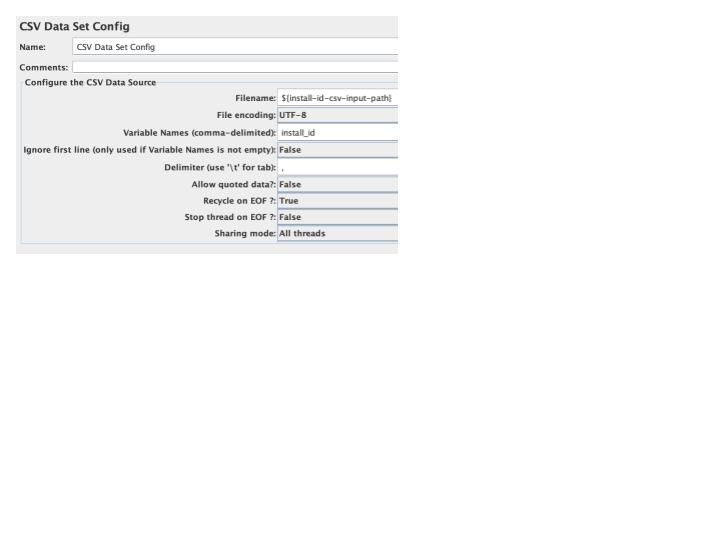
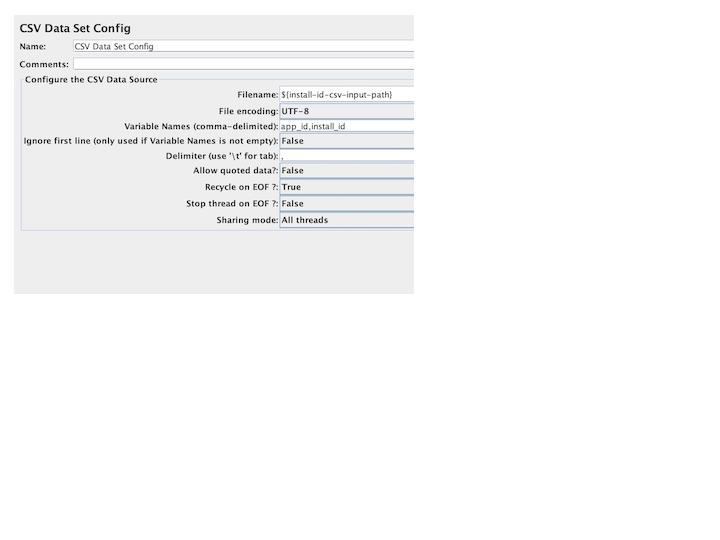
revised tutorial, updated load generation scripts and added a few fixes

Changed region(s): [[0.0306, 0.0296, 0.5806, 0.4741]]

diff --git a/tutorials/jmeter-bigtable-perf-testing/index.md b/tutorials/jmeter-bigtable-perf-testing/index.md
@@ -43,7 +43,7 @@ Use the [pricing calculator](https://cloud.google.com/products/calculator) to ge
 
 Possible use cases for doing performance tests with JMeter:
 
-* You want to migrate current Cassandra, HBase, or other NoSQL use cases  to Cloud Bigtable.
+* You want to migrate current Cassandra, HBase, or other NoSQL use cases to Cloud Bigtable.
 * You want to evaluate performance of a data model and need to ensure that Bigtable scales linearly to meet demand.
 * You want to standardize on Cloud Bigtable for multiple applications.
 * Test Cloud Bigtable autoscaling response time and speed.
@@ -54,9 +54,8 @@ Possible use cases for doing performance tests with JMeter:
 Below are a few limitations with JMeter and testing with Bigtable: 
 
 * You cannot use JMeter to test non-Java Cloud Bigtable client side libraries. Although, you can bypass the client library using underlying [gRPC](https://cloud.google.com/bigtable/docs/reference/service-apis-overview#grpc) or [REST APIs](https://cloud.google.com/bigtable/docs/reference/service-apis-overview#rest), that is out of scope for this document.
-* JMeter does not allow you to create a shared connection pool used by all the threads with JSR 233 Sampler. Therefore you will be creating one connection per thread in a Thread Group.
 
-Even if you use JMeter performance tests, you should also do application-based performance tests before you go to production.
+Even if you use JMeter performance tests, you should also perform application-based testing before you go to production.
 
 
 ## Design considerations for Cloud Bigtable performance tests
@@ -100,30 +99,35 @@ For this document we will assume an example use case of real time App Install & 
 
 ### High-level schema
 
-enterprise_app_installs: store record of apps ever available with UUID as app identifier. Lookup by key. 
+enterprise_app_installs: This table records live app installations with a row key that includes the app identifier and UUID of the unique application install. The row key design serves millisecond response time for lookup and allows for identifying installations by app.
 
-	rowkey: 		uuid
+```text
+	rowkey: 		appId#uuid
 	cf1:owner		<owner_id>
 	cf1:description		<user description>
 	cf1:app_status		<status_id>
 	cf1:app_category	<app_category>
 	cf1:created_ts		<created_ts>
+```
 
-enterprise_app_event_history: This is to store app activity events. Activity events are captured at key operations like signing, addToCart, checkout etc to collect information about important activities performed by the user (i.e. app install uuid). Along with that timestamp is captured as well which will allow us to filter events based on time when they occurred.
+enterprise_app_event_history: This table stores app activity events for each user's session. Activity events are captured at key operations like login, logout, navigation, inventory analysis, etc. to collect information about important activities performed by the user (i.e. app install uuid). Along with that, the event date/time (yyyy-MM-dd'T'HH:mm:ss.SSS) is captured to provide row-level ordering of events based on when they occurred.
 
+```text
 	rowkey: 		uuid#eventId#timestamp
 	cf1:event_details	<details_of_app_event>
 	cf1:memory_usage	<memory_usage_metric>
 	cf1:cpu_utilization	<cpu_utilization_metric>
 	cf1:event_ts		<event_ts>
-
+```
 
 ### DDL
 
 [Install bigtable CLI tool](https://cloud.google.com/bigtable/docs/cbt-overview) (cbt) if you don’t have one already or create tables using UI.
 
-	cbt -instance bt-perf createtable enterprise_app_installs "families=cf1:maxversions=10"
-	cbt -instance bt-perf createtable enterprise_app_event_history "families=cf1:maxversions=1"
+```sh
+cbt -instance bt-perf createtable enterprise_app_installs "families=cf1:maxversions=10"
+cbt -instance bt-perf createtable enterprise_app_event_history "families=cf1:maxversions=1"
+```
 
 
 ## Set up JMeter
@@ -136,32 +140,37 @@ You can use a local workstation for test development, too. Don't use a local wor
 ### Installation
 
 1. Download and install [JMeter](https://jmeter.apache.org/download_jmeter.cgi) 5.3 or higher, which requires Java 8 or higher.
-2. Install [Maven](https://maven.apache.org/install.html), which is used to download Cloud Spanner client libraries.
+2. Install [Maven](https://maven.apache.org/install.html), which is used to download Cloud Bigtable HBase client libraries.
 3. In a command shell, go to an empty directory, where you will keep JMeter dependencies.
 4. Download the Cloud Bigtable HBase client library and dependencies:
 
-	mvn dependency:get -Dartifact=com.google.cloud.bigtable:bigtable-hbase-1.x-shaded:2.0.0 -Dmaven.repo.local=.
+```sh
+mvn dependency:get -Dartifact=com.google.cloud.bigtable:bigtable-hbase-1.x-shaded:2.4.0 -Dmaven.repo.local=.
+```
 
-
-5. Move the downloaded JAR files into a folder for JMeter to load in its classpath: 
+5. Move the downloaded JAR files into a folder for JMeter to load in its classpath (ie. `./jars/`): 
 
 Linux
 
-	find . -name *.jar -exec mv '{}' . \;
+```sh
+find . -name *.jar -exec mv '{}' . \;
+```
 
 Windows
 
-	for /r %x in (*.jar) do copy "%x" .
-
+```sh
+for /r %x in (*.jar) do copy "%x" .
+```
 
 ### Set up authentication for JMeter
 
-JMeter uses Cloud Bigtable client libraries to connect. It supports [various authentication mechanisms](https://github.com/googleapis/google-cloud-java#authentication), including service accounts. For simplicity, this example uses application default credentials. For detailed steps, see [quickstart documentation](https://cloud.google.com/bigtable/docs/creating-test-table).
+JMeter uses Cloud Bigtable HBase client libraries to connect. It supports [various authentication mechanisms](https://github.com/googleapis/google-cloud-java#authentication), including service accounts. For simplicity, this example uses application default credentials. For detailed steps, see [quickstart documentation](https://cloud.google.com/bigtable/docs/creating-test-table).
 
 In summary, you need to set up gcloud and run the following command to store credentials locally:
 
-	gcloud auth application-default login
-
+```sh
+gcloud auth application-default login
+```
 
 ## JMeter basics
 
@@ -188,7 +197,7 @@ As shown in the following screenshot within each JMeter test, you need to provid
 
 [Thread group](https://jmeter.apache.org/usermanual/test_plan.html#thread_group) represents a test case containing a collection of samplers, each sampler is executed sequentially. It can be configured with a number of parallel threads (aka users) for that test.
 
-Within the thread group samplers are added which will call the bigtable.
+Within the thread group samplers are added which will call bigtable.
 
 
 ### JSR223 request sampler
@@ -241,7 +250,7 @@ The Bigtable cluster configurations including [storage types](https://cloud.goog
 
 ### How to reset tests
 
-Ideally, you should reset your database to the same seed data for comparison between multiple test executions. You can use backup/restore (or export/import) to initialize each run to the same initial dataset. The latter is better if different configurations are tested.
+Ideally, you should reset your database to the same seed data for comparison between multiple test executions. You can use backup/restore (or export/import) to initialize each run to the same initial dataset.
 
 
 ### Using JMeter to mock seed data
@@ -251,11 +260,11 @@ Sometimes it is not simple to import existing or mocked up data into Cloud Bigta
 Below is an example Bigtable-Initial-Load.jmx used to load sample schema. You will need to update connection parameters as described previously.
 
 
-### **[BigTable-Loader.jmx](./BigTable-Loader.jmx)**
+### **[Bigtable-Initial-Load.jmx](./Bigtable-Initial-Load.jmx)**
 
-The  [Bigtable-Initial-Load.jmx](./BigTable-Loader.jmx) test generates random data in enterprise_app_installs table with the below given column family.
+The  [Bigtable-Initial-Load.jmx](./Bigtable-Initial-Load.jmx) test generates random data in enterprise_app_installs and enterprise_app_event_history tables as described below. 
 
-
+table: enterprise_app_installs
 <table>
   <tr>
    <td><strong>Column Name</strong>
@@ -266,7 +275,7 @@ The  [Bigtable-Initial-Load.jmx](./BigTable-Loader.jmx) test generates random da
   <tr>
    <td>rowkey
    </td>
-   <td><a href="https://en.wikipedia.org/wiki/Universally_unique_identifier">uuid</a>
+   <td>random string consisting of 5 characters [0-9|a-f] + a random <a href="https://en.wikipedia.org/wiki/Universally_unique_identifier">UUID</a>
    </td>
   </tr>
   <tr>
@@ -301,11 +310,51 @@ The  [Bigtable-Initial-Load.jmx](./BigTable-Loader.jmx) test generates random da
   </tr>
 </table>
 
+table: enterprise_app_event_history
+<table>
+  <tr>
+   <td><strong>Column Name</strong>
+   </td>
+   <td><strong>Description</strong>
+   </td>
+  </tr>
+  <tr>
+   <td>rowkey
+   </td>
+   <td>random <a href="https://en.wikipedia.org/wiki/Universally_unique_identifier">UUID</a> + a random numeric event id + a random date/time between 2021-2022 (format yyyy-MM-dd'T'HH:mm:ss.SSS) 
+   </td>
+  </tr>
+  <tr>
+   <td>cf1:event_details
+   </td>
+   <td>random string consisting of 40 alphabetic and numeric characters as event details
+   </td>
+  </tr>
+  <tr>
+   <td>cf1:memory_usage
+   </td>
+   <td>random numeric value between 10_000 and 10_000_000
+   </td>
+  </tr>
+  <tr>
+   <td>cf1:cpu_usage
+   </td>
+   <td>random numeric value between 10 and 70
+   </td>
+  </tr>
+  <tr>
+   <td>cf1:event_ts
+   </td>
+   <td>random date/time between 2021-2022 (format yyyy-MM-dd'T'HH:mm:ss.SSS)
+   </td>
+  </tr>
+</table>
 
 You can run this JMeter test with the following command:
 
-	jmeter -n -t Bigtable-Initial-Load.jmx -l load-out-c.csv -Jthreads=100 -Jloops=1000
-
+```sh
+jmeter -n -t Bigtable-Initial-Load.jmx -l load-out-c.csv -Jthreads=100 -Jloops=1000
+```
 
 You can use the  [Key Visualizer tool for Bigtable](https://cloud.google.com/bigtable/docs/keyvis-overview) to generate visual reports for your table. This tool will help you analyze your Bigtable usage patterns. Key Visualizer makes it possible to check whether your usage patterns are causing undesirable results, such as hotspots on specific rows or excessive CPU utilization. 
 
@@ -316,13 +365,13 @@ Initial load should be done with randomly generated rowkeys. Using monotonically
 
 * Target to configure performance tests such that they generate transactions per second (TPS) similar to the current database (baseline). Later in the execution phase, increase the number of users (load) to simulate scaling.
 * Test with enough data: \
-Try to test your instance with roughly the same amount of data as present in your production environment. \
+Try to test your instance with roughly the same amount of data as present in your production environment.
 
-* Stay below the recommended storage utilization per node. For details, see [Storage utilization per node](https://cloud.google.com/bigtable/quotas#storage-per-node). \
+* Stay below the recommended storage utilization per node. For details, see [Storage utilization per node](https://cloud.google.com/bigtable/quotas#storage-per-node).
 
-* Run your test for at least 10 minutes. This step lets Bigtable further optimize your data, and it helps ensure that you will test reads from disk and cached reads from memory. \
+* Run your test for at least 10 minutes. This step lets Bigtable further optimize your data, and it helps ensure that you will test reads from disk and cached reads from memory.
 
-* Use the right type of write requests for your data. Choosing the optimal way to [write your data](https://cloud.google.com/bigtable/docs/writes) helps maintain high performance. \
+* Use the right type of write requests for your data. Choosing the optimal way to [write your data](https://cloud.google.com/bigtable/docs/writes) helps maintain high performance.
 
 * Use an[ SSD cluster](https://cloud.google.com/bigtable/docs/choosing-ssd-hdd) for read heavy operations. SSD nodes are significantly faster with more predictable performance.
 * Plan your Bigtable instance based on your specific need. You can take a look at this [article](https://cloud.google.com/bigtable/docs/performance#throughput-vs-latency) to know more about various trade-offs between high throughput and low latency offered by Bigtable.
@@ -380,20 +429,21 @@ Assume that the following baseline needs to be performance-tested:
 Below is the sample JMeter test to simulate the above scenarios.
 
 
-#### **[BigTable-Runner.jmx](./BigTable-Loader.jmx)**
+#### **[Bigtable-Runner.jmx](./Bigtable-Runner.jmx)**
 
 
-[Bigtable-Perf-Test.jmx](./BigTable-Runner.jmx) uses a CSV configuration to get UUID rowkey.
+[Bigtable-Runner.jmx](./Bigtable-Runner.jmx) uses a CSV configuration to get appId and install UUIDs rowkey elements for apps installed in enterprise_app_installs. These elements are used for tests in the subsequent steps.  
 
 The following are the first few lines, for example:
 
-	bfee72e3-0a6f-4b63-afbd-ce97bd1df68a
-	b5c00c8d-33b6-4c7b-add1-0eade16d7d7d
-	019bb7ce-9b19-41b7-9c5b-ec3f901069f5
-	6ed25e50-d0b2-4d57-9398-7db78d25370c
-	f918d20f-049f-4b33-994b-5b22e2927d5f
-	cd21919a-79b6-4c9e-b24c-a3f48dbb732d
-
+```text
+cfb2a,053f47ec-07ab-4281-81d8-ee57a48f517d
+395b9,130794a3-e3d7-4ce9-a149-33a451b184f5
+88078,5ca4c6d2-5963-42a2-ab17-0730966319e4
+f6955,ba01b91c-6714-48fd-b498-6b7a4de87ce2
+14c22,5e5f7332-ae37-481f-ac8f-2b86b589aadb
+1bbc8,c11961f3-2b41-4f02-84f4-bc8cc317e2a9
+```
 
 The above CSV file will be created using JMeter Bigtable Loader.
 
@@ -409,7 +459,7 @@ The CSV Read configuration reads data from a CSV file that is being used in all 
 
 
 
-All the thread groups are configured to use below parameters which can be passed by command line as well.
+All the thread groups are configured to use below parameters which can be passed by command line as well (ie. `-Jthreads=10`).
 
 
 
@@ -421,7 +471,7 @@ All the thread groups are configured to use below parameters which can be passed
 ![alt_text](images/6-thread-group.jpeg)
 
 
-The Bigtable Insert group as shown below uses Groovy script in order to connect to Bigtable and insert randomly generated values to **enterprise_app_event_history** table
+The Bigtable Insert group as shown below uses Groovy script in order to connect to Bigtable and insert randomly generated values to **enterprise_app_event_history** table.
 
 ![alt_text](images/7-add-event.jpeg)
 
@@ -442,9 +492,8 @@ The Bigtable Insert group as shown below uses Groovy script in order to connect 
 * Run tests for long enough such that TPS is stable. It depends on the workload, for example having at least a 15 minute test can ensure that enough ramp-up time is available.
 * Ensure that the client machine running JMeter has enough resources. JMeter is a CPU-intensive process.
 * Increase JMeter’s [jvm heap size](https://www.blazemeter.com/blog/9-easy-solutions-jmeter-load-test-%E2%80%9Cout-memory%E2%80%9D-failure), if needed.
-* Run multiple JMeter instances in parallel, or use [remote testing](https://jmeter.apache.org/usermanual/remote-test.html) for horizontal scaling of JMeter. Often, a single instance of JMeter is not able to produce enough load on a Bigtable node.
-* Ensure that Bigtable CPU load for a cluster is under 70%. For latency-sensitive applications, it is recommended to plan at least 2x capacity for application's max Bigtable queries per second (QPS). 
-* It is recommended to have max 1 KB of data in each row of a Bigtable table. Increasing the amount of data per row will also reduce the number of rows per second.
+* Run multiple JMeter instances in parallel, or use [remote testing](https://jmeter.apache.org/usermanual/remote-test.html) for horizontal scaling of JMeter. Often, a single instance of JMeter is not able to produce enough load on a Bigtable cluster.
+* Ensure that Bigtable CPU load for a cluster is under 70%. For latency-sensitive applications, it is recommended to plan at least 2x capacity for application's max Bigtable queries per second (QPS).
 * Ensure that the cluster has enough nodes to satisfy the recommended limits for both compute and storage.
 
 
@@ -453,14 +502,17 @@ The Bigtable Insert group as shown below uses Groovy script in order to connect 
 
 ### Run the test:
 
-	jmeter -n -t bigtable-performance-test.jmx -l load-out-c.csv -Jthreads=10 -Jloops=100
-
+```sh
+jmeter -n -t bigtable-performance-test.jmx -l load-out-c.csv -Jthreads=10 -Jloops=100
+```
 
 You can modify the number of users and duration as needed.
 
 The test generates a test-out.csv file with raw statistics. You can use the following command to [create a JMeter report from it](https://jmeter.apache.org/usermanual/generating-dashboard.html#report_only):
 
-	jmeter -g test-out.csv -o [PATH_TO_OUTPUT_FOLDER]
+```sh
+jmeter -g test-out.csv -o [PATH_TO_OUTPUT_FOLDER]
+```
 
 ### Collecting performance test results
 
@@ -471,12 +523,12 @@ You gather performance metrics after the test execution.
 
 We recommend capturing these performance metrics from Bigtable monitoring rather than the JMeter report. 
 
-Based on the success criteria, following metrics can be collected from BigTable Monitoring:
-* **CPU Load** : <50% is preferred for latency sensetive apps.
-* **Storage** : <60% of storage utilization is optimal to keep latencies low. Also SSDs is recommended.
-* **Latency at 50th and 99th percentile** 
+Based on the success criteria, following metrics can be collected from Bigtable Monitoring:
+* **CPU Load** : <70% is preferred for latency sensitive apps.
+* **Storage** : <60% of storage utilization is optimal to keep latencies low. Also SSDs is recommended for latency sensitive applications. 
+* **Latency at 50th and 95th percentile** 
 
-Refer [here](https://cloud.google.com/bigtable/docs/performance) for more detials on optimizing performance of BigTable.
+Refer [here](https://cloud.google.com/bigtable/docs/performance) for more details on optimizing performance of BigTable.
 Cloud Bigtable instances can be monitored using [Cloud monitoring](https://cloud.google.com/bigtable/docs/monitoring-instance), various types of metrics can be visualized including CPU utilization, Disk Usage, Latency, etc.
 
 To troubleshoot performance issues, use [Key Visualiser ](https://cloud.google.com/bigtable/docs/keyvis-overview)to analyze Bigtable usage patterns.
